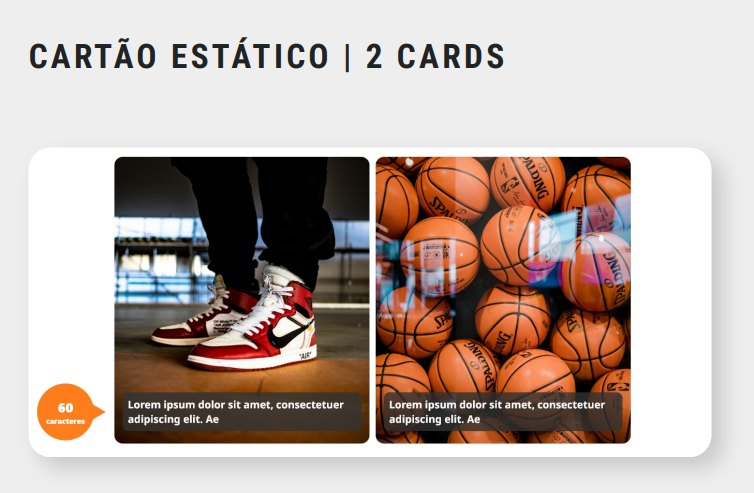
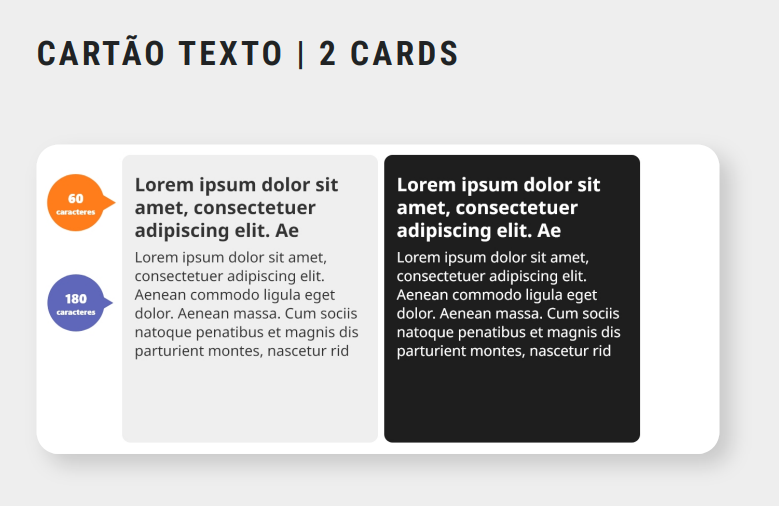
feat: add card texto

diff --git a/cartoes-texto-estatico/cartoes-imagem-estatico__4/opcao__2/Codigo.html b/cartoes-texto-estatico/cartoes-imagem-estatico__4/opcao__2/Codigo.html
@@ -1,18 +1,30 @@
-<!-- CARDS ESTATICOS (2 CARDS) -->
-<br>
-  <div class="cards-container-2 my-5">
-    <div class="cards-static static-2" style="background-image: url('Url da imagem com as dimensões 392px/528px');">
-      <div class="static-card-text">
-        <h2 class="card-title">Título com 40 caracteres</h2>
-        <p class="card-text">Texto com 60 caracteres</p>
+  <!-- CARTÕES DE 4 (TEXTO) -->
+  <div class="d-flex my-5">
+    <div class="card__features card__features--four owl-carousel owl-theme carousel-card owl-loaded owl-drag">
+      <div class="card__item">
+        <div class="card__verse rounded-lg" style="background-color: #EFEFEF">
+          <h3 class="font-weight-bold mt-2 mb-1" style="color: #333333">Título com 60 caracterese</h3>
+          <p style="color: #333333">Texto com 360 caracteres</p>
+        </div>
       </div>
-    </div>
-    <div class="cards-static static-2" style="background-image: url('Url da imagem com as dimensões 392px/528px');">
-      <div class="static-card-text">
-        <h2 class="card-title">Título com 40 caracteres</h2>
-        <p class="card-text">Texto com 60 caracteres</p>
+      <div class="card__item">
+        <div class="card__verse rounded-lg" style="background-color: #00FFFF">
+          <h3 class="font-weight-bold mt-2 mb-1" style="color: #000">Título com 60 caracterese</h3>
+          <p style="color: #000">Texto com 360 caracteres</p>
+        </div>
+      </div>
+      <div class="card__item">
+        <div class="card__verse rounded-lg" style="background-color: #6A5ACD">
+          <h3 class="font-weight-bold mt-2 mb-1" style="color: #fff">Título com 60 caracterese</h3>
+          <p style="color: #fff">Texto com 360 caracteres</p>
+        </div>
+      </div>
+      <div class="card__item">
+        <div class="card__verse rounded-lg" style="background-color: #000080">
+          <h3 class="font-weight-bold mt-2 mb-1" style="color: #fff">Título com 60 caracterese</h3>
+          <p style="color: #fff">Texto com 360 caracteres</p>
+        </div>
       </div>
     </div>
   </div>
-<br>
-<!-- /CARDS ESTATICOS (2 CARDS) --> 
+  <!-- CARTÕES DE 4 (TEXTO) -->

diff --git a/cartoes-texto-estatico/cartoes-imagem-estatico__2/opcao__2/Codigo.html b/cartoes-texto-estatico/cartoes-imagem-estatico__2/opcao__2/Codigo.html
@@ -1,23 +1,18 @@
-
-      <!-- CARTÕES DE 2 (ESTÁTICO) -->
-      <div class="d-flex my-4 justify-content-center">
-        <div class="card__features card__features--two d-lg-flex d-md-block">
-          <div class="card__item mb-3">
-            <div class="card__obverse d-flex flex-column justify-content-end">
-              <div class="card__obverse--image position-absolute rounded-lg" style="background-image: url(https://i.pinimg.com/236x/47/14/4b/47144be735f48cdf694b9b0a724272e9.jpg);"></div>
-              <div class="card__obverse--text position-relative rounded-lg">
-                <p class="m-0 font-weight-bold">Texto com 60 caracteres</p>
-              </div>
-            </div>
-          </div>
-          <div class="card__item mb-3">
-            <div class="card__obverse d-flex flex-column justify-content-end">
-              <div class="card__obverse--image position-absolute rounded-lg" style="background-image: url(https://i.pinimg.com/236x/47/14/4b/47144be735f48cdf694b9b0a724272e9.jpg);"></div>
-              <div class="card__obverse--text position-relative rounded-lg">
-                <p class="m-0 font-weight-bold">Texto com 60 caracteres</p>
-              </div>
-            </div>
-          </div>
-        </div>
+ <!-- CARTÕES DE 2 (TEXTO) -->
+ <div class="d-flex my-4 justify-content-center">
+  <div class="card__features card__features--two d-lg-flex d-md-block">
+    <div class="card__item mb-3">
+      <div class="card__verse rounded-lg" style="background-color: #EFEFEF">
+        <h3 class="font-weight-bold mt-2 mb-1" style="color: #333333">Título 60 caracteres</h3>
+        <p style="color: #333333">Texto descritivo com 360 caracteres</p>
       </div>
-      <!-- CARTÕES DE 2 (ESTÁTICO) -->
+    </div>
+    <div class="card__item mb-3">
+      <div class="card__verse rounded-lg" style="background-color: #00FFFF">
+        <h3 class="font-weight-bold mt-2 mb-1" style="color: #333333">Título 60 caracteres</h3>
+        <p style="color: #333333">Texto descritivo com 360 caracteres</p>
+      </div>
+    </div>
+  </div>
+</div>
+<!-- CARTÕES DE 2 (TEXTO) -->

diff --git a/cartoes-imagem-estatico/cartoes-imagem-estatico__2/opcao__2/Codigo.html b/cartoes-imagem-estatico/cartoes-imagem-estatico__2/opcao__2/Codigo.html
@@ -1,18 +1,23 @@
-<!-- CARDS ESTATICOS (2 CARDS) -->
-<div class="cards-container-2 my-5">
-  <div class="cards-static static-2"
-    style="background-image: url('Url da imagem com as dimensões 493px/554px');">
-    <div class="static-card-text">
-      <h2 class="card-title">Titulo com 40 caracteres</h2>
-      <p class="card-text">Texto com 60 caracteres</p>
-    </div>
-  </div>
-  <div class="cards-static static-2 static-relative"
-    style="background-image: url('Url da imagem com as dimensões 493px/554px');">
-    <div class="static-card-text">
-      <h2 class="card-title"> Titulo com 40 caracteres</h2>
-      <p class="card-text">Texto com 60 caracteres</p>
-    </div>
-  </div>
-</div>
-<!-- /CARDS ESTATICOS (2 CARDS) -->
+
+      <!-- CARTÕES DE 2 (ESTÁTICO) -->
+      <div class="d-flex my-4 justify-content-center">
+        <div class="card__features card__features--two d-lg-flex d-md-block">
+          <div class="card__item mb-3">
+            <div class="card__obverse d-flex flex-column justify-content-end">
+              <div class="card__obverse--image position-absolute rounded-lg" style="background-image: url(https://i.pinimg.com/236x/47/14/4b/47144be735f48cdf694b9b0a724272e9.jpg);"></div>
+              <div class="card__obverse--text position-relative rounded-lg">
+                <p class="m-0 font-weight-bold">Texto com 60 caracteres</p>
+              </div>
+            </div>
+          </div>
+          <div class="card__item mb-3">
+            <div class="card__obverse d-flex flex-column justify-content-end">
+              <div class="card__obverse--image position-absolute rounded-lg" style="background-image: url(https://i.pinimg.com/236x/47/14/4b/47144be735f48cdf694b9b0a724272e9.jpg);"></div>
+              <div class="card__obverse--text position-relative rounded-lg">
+                <p class="m-0 font-weight-bold">Texto com 60 caracteres</p>
+              </div>
+            </div>
+          </div>
+        </div>
+      </div>
+      <!-- CARTÕES DE 2 (ESTÁTICO) -->

diff --git a/cartoes-texto-estatico/cartoes-imagem-estatico__3/opcao__2/Codigo.html b/cartoes-texto-estatico/cartoes-imagem-estatico__3/opcao__2/Codigo.html
@@ -1,18 +1,24 @@
-<!-- CARDS ESTATICOS (2 CARDS) -->
-<br>
-  <div class="cards-container-2 my-5">
-    <div class="cards-static static-2" style="background-image: url('Url da imagem com as dimensões 392px/528px');">
-      <div class="static-card-text">
-        <h2 class="card-title">Título com 40 caracteres</h2>
-        <p class="card-text">Texto com 60 caracteres</p>
+<!-- CARTÕES DE 3 (TEXTO) -->
+<div class="d-flex my-5">
+  <div class="card__features card__features--three owl-carousel owl-theme carousel-card owl-loaded owl-drag">
+    <div class="card__item">
+      <div class="card__verse rounded-lg" style="background-color: #EFEFEF">
+        <h3 class="font-weight-bold mt-2 mb-1" style="color: #333333">Título com 60 caracteres</h3>
+        <p style="color: #333333">Texto com 360 caracteres</p>
       </div>
     </div>
-    <div class="cards-static static-2" style="background-image: url('Url da imagem com as dimensões 392px/528px');">
-      <div class="static-card-text">
-        <h2 class="card-title">Título com 40 caracteres</h2>
-        <p class="card-text">Texto com 60 caracteres</p>
+    <div class="card__item">
+      <div class="card__verse rounded-lg" style="background-color: #00FFFF">
+        <h3 class="font-weight-bold mt-2 mb-1" style="color: #333333">Título com 60 caracteres</h3>
+        <p style="color: #333333">Texto descritivo com 360 caracteres</p>
+      </div>
+    </div>
+    <div class="card__item">
+      <div class="card__verse rounded-lg" style="background-color: #6A5ACD">
+        <h3 class="font-weight-bold mt-2 mb-1" style="color: #fff">Título com 60 caracteres</h3>
+        <p style="color: #fff">Texto com 360 caracteres</p>
       </div>
     </div>
   </div>
-<br>
-<!-- /CARDS ESTATICOS (2 CARDS) --> 
+</div>
+<!-- CARTÕES DE 3 (TEXTO) -->
